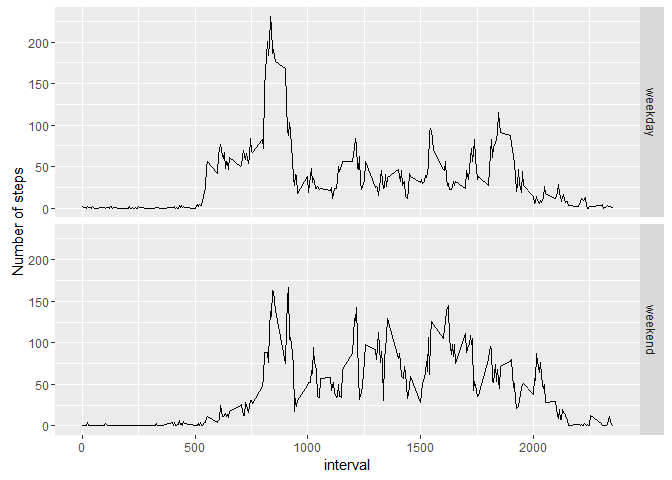
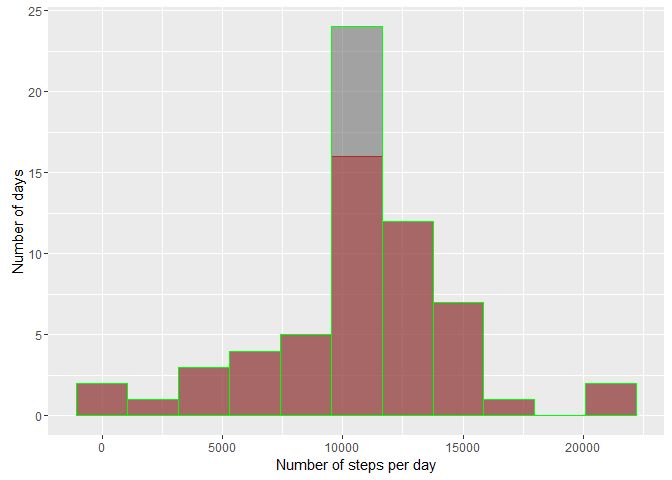
Corrections

diff --git a/PA1_template.html b/PA1_template.html
@@ -121,17 +121,22 @@ $(document).ready(function () {
 
 <div id="loading-and-preprocessing-the-data" class="section level2">
 <h2>Loading and preprocessing the data</h2>
-<p>Load the data using the <em>read.csv</em> standard function:</p>
-<pre class="r"><code>a &lt;- read.csv(unz(&quot;activity.zip&quot;,&quot;activity.csv&quot;))
-a$date &lt;- as.Date(a$date,&quot;%Y-%m-%d&quot;)</code></pre>
+<p>Load the data using the <code>read.csv</code> standard function:</p>
+<pre class="r"><code>a &lt;- read.csv(unz(&quot;activity.zip&quot;,&quot;activity.csv&quot;))</code></pre>
 <p>The data-frame <strong>a</strong> must now contains 17568 observations of 3 variables. Let’s check it:</p>
 <pre class="r"><code>str(a)</code></pre>
 <pre><code>## 'data.frame':    17568 obs. of  3 variables:
 ##  $ steps   : int  NA NA NA NA NA NA NA NA NA NA ...
-##  $ date    : Date, format: &quot;2012-10-01&quot; &quot;2012-10-01&quot; ...
+##  $ date    : Factor w/ 61 levels &quot;2012-10-01&quot;,&quot;2012-10-02&quot;,..: 1 1 1 1 1 1 1 1 1 1 ...
 ##  $ interval: int  0 5 10 15 20 25 30 35 40 45 ...</code></pre>
-<p>The <strong>date</strong> column is of <em>character</em> data type. As we will have to deal with it as a date, let’s convert it to the <em>Date</em> data type and check the result:</p>
-<pre class="r"><code>a$date &lt;- as.Date(a$date,&quot;%Y-%m-%d&quot;)
+<p>The <strong>date</strong> column is of <code>character</code> data type. As we will have to deal with it as a date, let’s convert <strong>date</strong> to the <code>Date</code> data type, then check the results:</p>
+<pre class="r"><code>library(lubridate)</code></pre>
+<pre><code>## 
+## Attaching package: 'lubridate'</code></pre>
+<pre><code>## The following object is masked from 'package:base':
+## 
+##     date</code></pre>
+<pre class="r"><code>a$date &lt;- ymd(a$date)
 str(a)</code></pre>
 <pre><code>## 'data.frame':    17568 obs. of  3 variables:
 ##  $ steps   : int  NA NA NA NA NA NA NA NA NA NA ...
@@ -160,8 +165,8 @@ str(ts)</code></pre>
 <p>Before calculating the mean and median, let’s have a look of how the total number of steps per day are distributed:</p>
 <pre class="r"><code>library(ggplot2)
 ggplot() + geom_histogram(data = ts,aes(steps), bins = 11, fill = &quot;red&quot;, color = &quot;red&quot;, alpha = 0.5) +
-           xlab(&quot;Number of steps per day&quot;)</code></pre>
[1 lines of base64/hex data omitted]
+           xlab(&quot;Number of steps per day&quot;) + ylab(&quot;Number of days&quot;)</code></pre>
[1 lines of base64/hex data omitted]
 <p>The majority of the the total numbers of steps recorded for a given day seems to be around 10000. Let calculate the mean and the median to confirm that:</p>
 <pre class="r"><code>mean(ts$steps)</code></pre>
 <pre><code>## [1] 10766.19</code></pre>
@@ -174,13 +179,22 @@ ggplot() + geom_histogram(data = ts,aes(steps), bins = 11, fill = &quot;red&quot
 <pre class="r"><code>ms &lt;- aggregate(steps ~ interval, data = a, mean)
 qplot(interval , steps, data = ms, geom = &quot;line&quot;, ylab = &quot;Number of steps&quot;)</code></pre>
[1 lines of base64/hex data omitted]
+<p>We see a spike in the chart. Let’s find it’s parameters (by using <code>()</code> around an assignment <code>&lt;-</code> statement, R will also print the assigned value saving us to explicitly print the variable by retyping its name. This is particulary usefull when you need to use a variable so you can put value in your text as we do below with the interval and number of steps):</p>
+<pre class="r"><code>(maxms &lt;- ms[which.max(ms$steps),])</code></pre>
+<pre><code>##     interval    steps
+## 104      835 206.1698</code></pre>
+<p>So the average maximum number of steps occurs at the interval <strong>835</strong> with <strong>206</strong> steps on average for that time interval.</p>
 </div>
 <div id="imputing-missing-values" class="section level2">
 <h2>Imputing missing values</h2>
 <p>There are some missing values in our data-set. This may have an impact on how we should interpret the data. So let’s check them. How many NA’s do we have:</p>
-<pre class="r"><code>sum(is.na(a$steps))</code></pre>
-<pre><code>## [1] 2304</code></pre>
-<p>Let’s find out a little more about these NA’s. Are they spread in all the data? Are whole days missing ? Are specific intervals being more impacted than others? Let’s calculate the proportion of NA’s for each day (as Boolean value are treated as 0 and 1 in calculation, the mean function will give us the proportion of NA’s) and have a look of what we have:</p>
+<pre class="r"><code>sapply(a, function(x) sum(is.na(x)))</code></pre>
+<pre><code>##    steps     date interval 
+##     2304        0        0</code></pre>
+<p>So all the NA’s are in the steps variable. What is the proportion of missing values in the step variable (as Boolean value are treated as 0 and 1 in calculation, the mean function will give us the proportion of NA’s):</p>
+<pre class="r"><code>(mis.step &lt;- mean(is.na(a$step)))</code></pre>
+<pre><code>## [1] 0.1311475</code></pre>
+<p>So around 13% of the value are missing. How can we fill in these missing value while minimizing the impact on the rest of the data. Let’s find out a little more about these NA’s. Are they spread in all the data? Are whole days missing ? Are specific intervals being more impacted than others? Let’s calculate the proportion of NA’s for each day and have a look of what we have:</p>
 <pre class="r"><code>na.d &lt;- aggregate(is.na(steps) ~ date, data = a, mean)
 summary(na.d)</code></pre>
 <pre><code>##       date             is.na(steps)   
@@ -193,7 +207,10 @@ summary(na.d)</code></pre>
 <p>So the minimum (Min.) is 0, meaning there are days without any missing values and the maximum (Max.) is 1 meaning that some days are full of NA’s. Let’s count the number of days that are neither full of NA’s (1) nor without any NA’s (0):</p>
 <pre class="r"><code>nrow(subset(na.d, `is.na(steps)` != 0 &amp; `is.na(steps)` != 1 ))</code></pre>
 <pre><code>## [1] 0</code></pre>
-<p>Good news, there are no partial data for any dates. Meaning that only full days of data are missing. Lets replace these missing data by the mean of the other days for the corresponding interval. We have already calculated the mean value per interval in the data frame <strong>ms</strong> but we will have to round the value to an integer as the other steps values:</p>
+<p>Good news, there are no partial data for any dates. Meaning that only full days of data are missing. How many days of data are missing:</p>
+<pre class="r"><code>(misday &lt;- sum(na.d$`is.na(steps)`))</code></pre>
+<pre><code>## [1] 8</code></pre>
+<p>Lets replace these 8 missing days of data by the mean of the other days for the corresponding interval. So basically we will assume that the days were there is no data available, the subject as performed an average day were each the number of steps for each interval is the mean of the days were data are available. We have already calculated the mean value per interval in the data frame <strong>ms</strong> but we will have to round the value to an integer to match the type of the other steps values:</p>
 <pre class="r"><code>af &lt;- merge(a, ms, by = &quot;interval&quot;) # Add a column with the mean for the corresponding interval
 af$steps.x &lt;- ifelse(is.na(af$steps.x),as.integer(round(af$steps.y)), # replace NA's by the mean
                                        af$steps.x
@@ -207,8 +224,8 @@ colnames(af)[1] &lt;- &quot;steps&quot; #rename the columan as in the original d
 <pre class="r"><code>tsf &lt;- aggregate(steps ~ date, data = af,  sum)
 ggplot() + geom_histogram(data = ts ,aes(steps), bins = 11, color = &quot;red&quot;, alpha = 0.5, fill = &quot;red&quot;) +
            geom_histogram(data = tsf,aes(steps), bins = 11, color = &quot;green&quot;, alpha = 0.5) +
-           xlab(&quot;Number of steps per day&quot;)</code></pre>
[1 lines of base64/hex data omitted]
+           xlab(&quot;Number of steps per day&quot;) + ylab(&quot;Number of days&quot;)</code></pre>
[1 lines of base64/hex data omitted]
 <p>By overlaying the two histograms (original in red and, the one where NA has been filled with border in green and fill in gray), we can see that the number of days where the number of steps are all identical but for one bin. The central bin is now higher. Let’s compare the means and medians:</p>
 <pre class="r"><code>matrix(c(mean(ts$steps),   mean(tsf$steps),
          median(ts$steps), median(tsf$steps)),
@@ -220,7 +237,7 @@ ggplot() + geom_histogram(data = ts ,aes(steps), bins = 11, color = &quot;red&qu
 <pre><code>##                       mean median
 ## Original (ts)     10766.19  10765
 ## Na Replaced (tsf) 10765.64  10762</code></pre>
-<p>The means and medians are praticaly identical.</p>
+<p>The means and medians are practically identical. So filling in the missing value with the same interval means had nearly no impact on the overall mean or median for the days. This seems logical, the days we added where <em>mean</em> day so they impacted the number of <em>mean</em> days. There are 8 more in the central bin which correspond to the days where data was missing and that have been filled with data from a <em>average</em> day.</p>
 </div>
 <div id="are-there-differences-in-activity-patterns-between-weekdays-and-weekends" class="section level2">
 <h2>Are there differences in activity patterns between weekdays and weekends?</h2>
@@ -230,7 +247,7 @@ mswd &lt;- aggregate(steps ~ interval + wd, data = af, mean)</code></pre>
 <p>Finally we compare the average number of steps during the day for the week days and weekend days :</p>
 <pre class="r"><code>qplot(interval, steps, data = mswd, facets = &quot;wd ~.&quot;, geom = &quot;line&quot;, ylab = &quot;Number of steps&quot;)</code></pre>
[1 lines of base64/hex data omitted]
-<p>Looks like we start moving later during weekend that weekdays…</p>
+<p>Looks like we are walking less in the begining of a day during weekend than during the rest of the week. Is it suprinsing?</p>
 </div>
 
 

diff --git a/PA1_template.md b/PA1_template.md
@@ -2,11 +2,10 @@
 
 
 ## Loading and preprocessing the data
-Load the data using the *read.csv* standard function:
+Load the data using the `read.csv` standard function:
 
 ```r
 a <- read.csv(unz("activity.zip","activity.csv"))
-a$date <- as.Date(a$date,"%Y-%m-%d")
 ```
 The data-frame **a** must now contains 17568 observations of 3 variables. Let's check it:
 
@@ -17,13 +16,28 @@ str(a)
 ```
 ## 'data.frame':	17568 obs. of  3 variables:
 ##  $ steps   : int  NA NA NA NA NA NA NA NA NA NA ...
-##  $ date    : Date, format: "2012-10-01" "2012-10-01" ...
+##  $ date    : Factor w/ 61 levels "2012-10-01","2012-10-02",..: 1 1 1 1 1 1 1 1 1 1 ...
 ##  $ interval: int  0 5 10 15 20 25 30 35 40 45 ...
 ```
-The **date** column is of *character* data type. As we will have to deal with it as a date, let's convert it to the *Date* data type and check the result: 
+The **date** column is of `character` data type. As we will have to deal with it as a date, let's convert **date** to the `Date` data type, then check the results: 
 
 ```r
-a$date <- as.Date(a$date,"%Y-%m-%d")
+library(lubridate)
+```
+
+```
+## 
+## Attaching package: 'lubridate'
+```
+
+```
+## The following object is masked from 'package:base':
+## 
+##     date
+```
+
+```r
+a$date <- ymd(a$date)
 str(a)
 ```
 
@@ -62,7 +76,7 @@ Before calculating the mean and median, let's have a look of how the total numbe
 ```r
 library(ggplot2)
 ggplot() + geom_histogram(data = ts,aes(steps), bins = 11, fill = "red", color = "red", alpha = 0.5) +
-           xlab("Number of steps per day")
+           xlab("Number of steps per day") + ylab("Number of days")
 ```
 
 ![](PA1_template_files/figure-html/unnamed-chunk-5-1.png)<!-- -->
@@ -95,18 +109,41 @@ qplot(interval , steps, data = ms, geom = "line", ylab = "Number of steps")
 
 ![](PA1_template_files/figure-html/unnamed-chunk-7-1.png)<!-- -->
 
+We see a spike in the chart. Let's find it's parameters (by using `()` around an assignment `<-` statement, R will also print the assigned value saving us to explicitly print the variable by retyping its name. This is particulary usefull when you need to use a variable so you can put value in your text as we do below with the interval and number of steps):
+
+```r
+(maxms <- ms[which.max(ms$steps),])
+```
+
+```
+##     interval    steps
+## 104      835 206.1698
+```
+So the average maximum number of steps occurs at the interval **835** with **206** steps on average for that time interval.
+
 ## Imputing missing values
 There are some missing values in our data-set. This may have an impact on how we should interpret the data. So let's check them. How many NA's do we have:
 
 ```r
-sum(is.na(a$steps))
+sapply(a, function(x) sum(is.na(x)))
 ```
 
 ```
-## [1] 2304
+##    steps     date interval 
+##     2304        0        0
 ```
+So all the NA's are in the steps variable. What is the proportion of missing values in the step variable (as Boolean value are treated as 0 and 1 in calculation, the mean function will give us the proportion of NA's):
+
+```r
+(mis.step <- mean(is.na(a$step)))
+```
+
+```
+## [1] 0.1311475
+```
+So around 13% of the value are missing. How can we fill in these missing value while minimizing the impact on the rest of the data. 
 Let's find out a little more about these NA's. Are they spread in all the data? Are whole days missing ? Are specific intervals being more impacted than others?
-Let's calculate the proportion of NA's for each day (as Boolean value are treated as 0 and 1 in calculation, the mean function will give us the proportion of NA's) and have a look of what we have:
+Let's calculate the proportion of NA's for each day and have a look of what we have:
 
 ```r
 na.d <- aggregate(is.na(steps) ~ date, data = a, mean)
@@ -131,8 +168,16 @@ nrow(subset(na.d, `is.na(steps)` != 0 & `is.na(steps)` != 1 ))
 ```
 ## [1] 0
 ```
-Good news, there are no partial data for any dates. Meaning that only full days of data are missing.
-Lets replace these missing data by the mean of the other days for the corresponding interval. We have already calculated the mean value per interval in the data frame **ms** but we will have to round the value to an integer as the other steps values:
+Good news, there are no partial data for any dates. Meaning that only full days of data are missing. How many days of data are missing:
+
+```r
+(misday <- sum(na.d$`is.na(steps)`))
+```
+
+```
+## [1] 8
+```
+Lets replace these 8 missing days of data by the mean of the other days for the corresponding interval. So basically we will assume that the days were there is no data available, the subject as performed an average day were each the number of steps for each interval is the mean of the days were data are available. We have already calculated the mean value per interval in the data frame **ms** but we will have to round the value to an integer to match the type of the other steps values:
 
 ```r
 af <- merge(a, ms, by = "interval") # Add a column with the mean for the corresponding interval
@@ -157,10 +202,10 @@ Good. Now let's compare the total steps per days before and after filling in the
 tsf <- aggregate(steps ~ date, data = af,  sum)
 ggplot() + geom_histogram(data = ts ,aes(steps), bins = 11, color = "red", alpha = 0.5, fill = "red") +
            geom_histogram(data = tsf,aes(steps), bins = 11, color = "green", alpha = 0.5) +
-           xlab("Number of steps per day")
+           xlab("Number of steps per day") + ylab("Number of days")
 ```
 
-![](PA1_template_files/figure-html/unnamed-chunk-13-1.png)<!-- -->
+![](PA1_template_files/figure-html/unnamed-chunk-16-1.png)<!-- -->
 
 By overlaying the two histograms (original in red and, the one where NA has been filled with border in green and fill in gray), we can see that the number of days where the number of steps are all identical but for one bin. The central bin is now higher. 
 Let's compare the means and medians:
@@ -181,7 +226,7 @@ matrix(c(mean(ts$steps),   mean(tsf$steps),
 ## Na Replaced (tsf) 10765.64  10762
 ```
 
-The means and medians are praticaly identical.
+The means and medians are practically identical. So filling in the missing value with the same interval means had nearly no impact on the overall mean or median for the days. This seems logical, the days we added where *mean* day so they impacted the number of *mean* days. There are 8 more in the central bin which correspond to the days where data was missing and that have been filled with data from a *average* day.
 
 ## Are there differences in activity patterns between weekdays and weekends?
 First we need to add a variable to differentiate week days from weekend days then calculate the average number of steps per interval for the week days and weekend days separately:
@@ -197,6 +242,6 @@ Finally we compare the average number of steps during the day for the week days 
 qplot(interval, steps, data = mswd, facets = "wd ~.", geom = "line", ylab = "Number of steps")
 ```
 
-![](PA1_template_files/figure-html/unnamed-chunk-16-1.png)<!-- -->
+![](PA1_template_files/figure-html/unnamed-chunk-19-1.png)<!-- -->
 
-Looks like we start moving later during weekend that weekdays...
+Looks like we are walking less in the begining of a day during weekend than during the rest of the week. Is it suprinsing?
